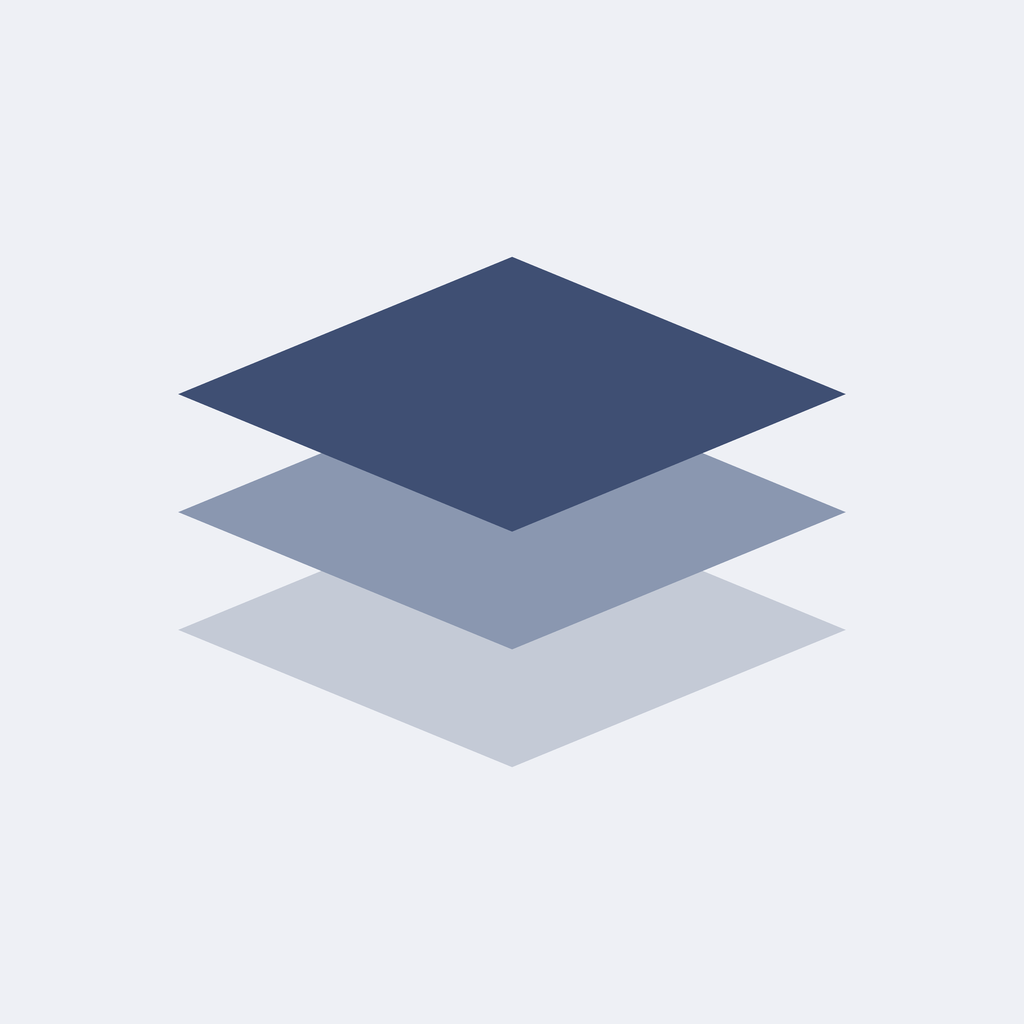
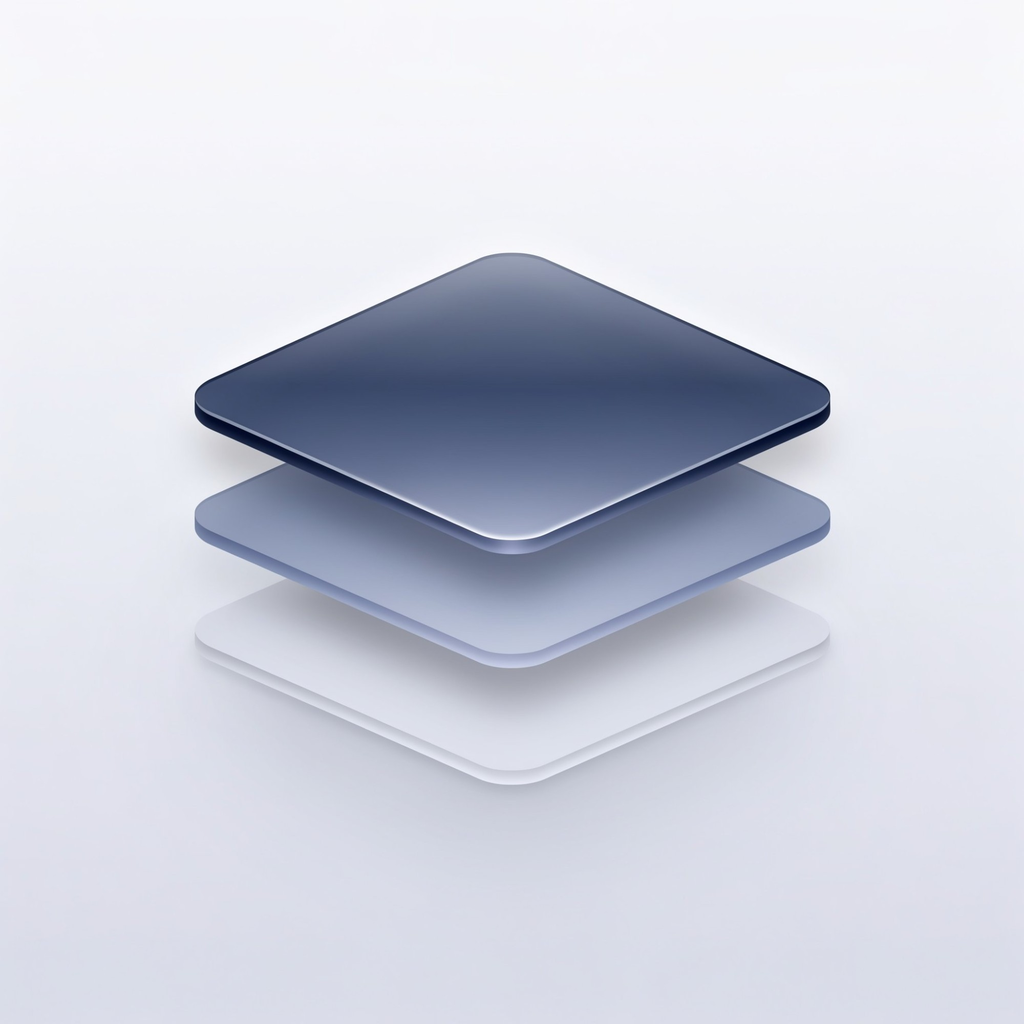
Иконка: объёмная версия трёх слоёв (iOS, заставка, PWA-иконки PNG)

diff --git a/index.html b/index.html
@@ -8,7 +8,7 @@
   <meta name="theme-color" content="#ffffff">
   <meta name="color-scheme" content="light">
   <link rel="manifest" href="manifest.webmanifest">
-  <link rel="icon" href="icon.svg" type="image/svg+xml">
+  <link rel="icon" href="icon-192.png" type="image/png">
   <link rel="apple-touch-icon" href="apple-touch-icon.png">
   <meta name="apple-mobile-web-app-capable" content="yes">
   <meta name="apple-mobile-web-app-status-bar-style" content="black-translucent">

diff --git a/sw.js b/sw.js
@@ -20,8 +20,8 @@ const ASSETS = [
   './vendor/gaussian-splats-3d.module.js',
   './app.js',
   './manifest.webmanifest',
-  './icon.svg',
-  './icon-maskable.svg',
+  './icon-192.png',
+  './icon-512.png',
   './apple-touch-icon.png',
 ];
 

diff --git a/CLAUDE.md b/CLAUDE.md
@@ -30,6 +30,7 @@ PWA-фотодневник ремонта: несколько объектов (
 
 - **Название с 2026-10-04 — Fixpoint** (выбор пользователя из 20 вариантов; «Стенограф» англоязычным читается как stenographer — расшифровка речи). Смысл: fix = «чинить» и «фиксировать». Поиск (App Store/Google Play/веб) приложений с этим именем не нашёл; есть компании Fixpoint вне нашей сферы (AI-данные, сервис электромобилей, ремонт техники в Бельгии); домены и товарный знак не проверены. Переименовано всё видимое (шапка, title, manifest, appName/CFBundleDisplayName, отчёты, руководство, README). **Технические идентификаторы оставлены специально**: IndexedDB `stenograf`, ключ `stenograf.user`, кеш SW, bundle ID `ru.stenograf.app` (смена = новое приложение на iPhone без старых данных), плагин `stenograf-roomplan`, артефакт `Stenograf-unsigned-ipa`, репозиторий. Резервная копия пишется с `app: 'fixpoint'`, импорт принимает и `stenograf`. Конкурент в аренде — Roomprint (iOS: акты заезда/выезда, SHA-256 на фото, сравнение, PDF).
 - Прежнее название «Стенограф» (игра слов: стена + фиксировать). **Проверка сентябрь 2026:** в Google Play занято (`ru.stenograph` — клавиатура с распознаванием речи), в App Store свободно, домены stenograf.ru/.app свободны. Вопрос финального имени открыт; запасные: «Ремлог», «ДоПосле», «Renolog».
+- **Иконка с 2026-10-17 — объёмная версия тех же трёх слоёв** (сделана пользователем в Ideogram через Remix текущей): скруглённые плитки с толщиной, градиентом, бликами и мягкими тенями, фон — вертикальный градиент от почти белого к светло-серо-голубому. Из неё: `native/resources/icon-1024.png`, `splash-2732.png` (знак 1500 px по центру на том же градиенте, края растушёваны), PWA — `icon-192.png`, `icon-512.png` (и maskable), `apple-touch-icon.png`; `icon.svg` / `icon-maskable.svg` удалены. Маленький знак в шапке приложения (`LOGO` в app.js) остался плоским.
 - **Иконка (с 2026-10-03): «Слои в скане» без рамки** — три изометрических слоя (этапы, `#3f4f73` / `#8a97b0` / `#c4cad6`), увеличенные ×1.15, фон `#eef0f5`; уголки скан-рамки пользователь попросил убрать. Выбрана пользователем из 24 набросков (идеи с домом/квартирой он отверг). Исходники: `native/resources/icon-1024.png`, `splash-2732.png` (знак по центру), PWA — `icon.svg`, `icon-maskable.svg`, `apple-touch-icon.png`. Прежняя «дом с объективом» больше не используется. Пользователь просил светлые иконки без стрелок.
 - Палитра приложения: акцент `#d95f18`. **С 2026-09-27 приложение только светлое** (просьба пользователя): тёмная тема убрана, шапка белая с тёмным текстом, в Info.plist `UIUserInterfaceStyle=Light`. 3D-тур в стиле референса пользователя (планировщик с белыми стенами): фон `#e3e7ec` (холодный светло-серый), белые стены с серым верхом-«разрезом» `#6b7178` (пользователь попросил светлее графита) (как у RoomSketcher/Floorplanner — иначе белые стены сливаются с фоном), тень под моделью (ShadowMaterial), полы светлое дерево/светло-серый (не зелёные — просьба пользователя), мягкие тени (PCFSoft), мебель — лавандово-серые коробки (модели мебели пользователь попросил пока не делать).
 
